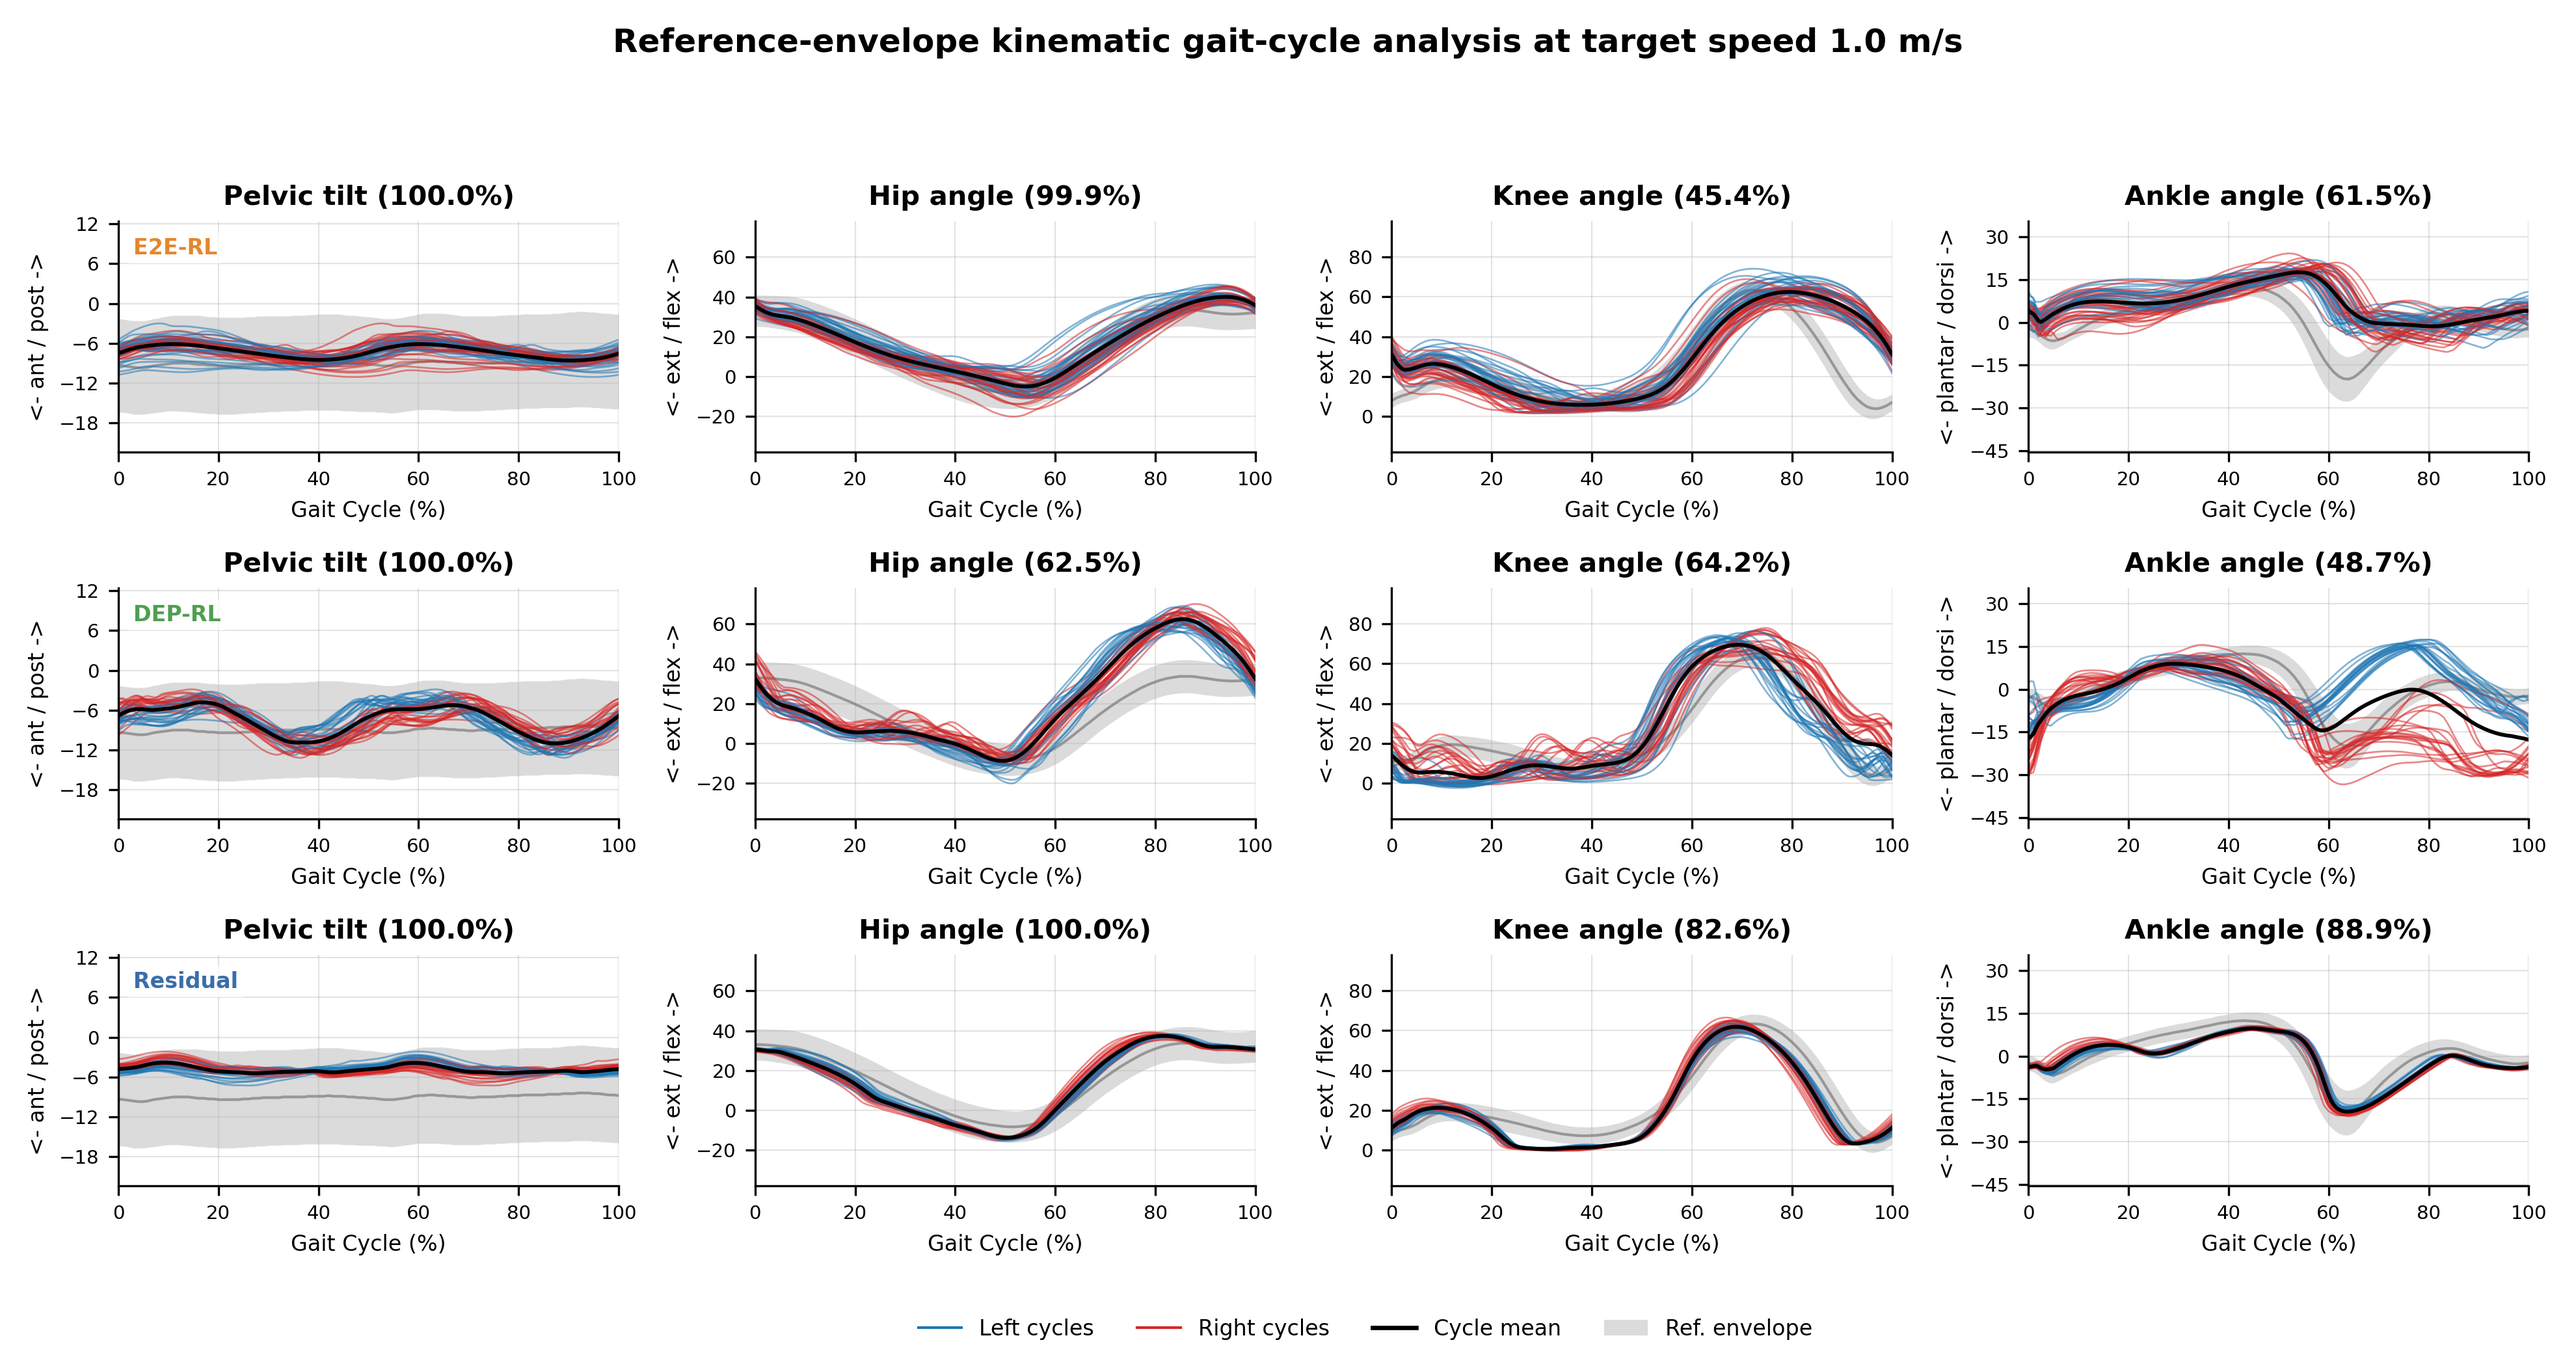
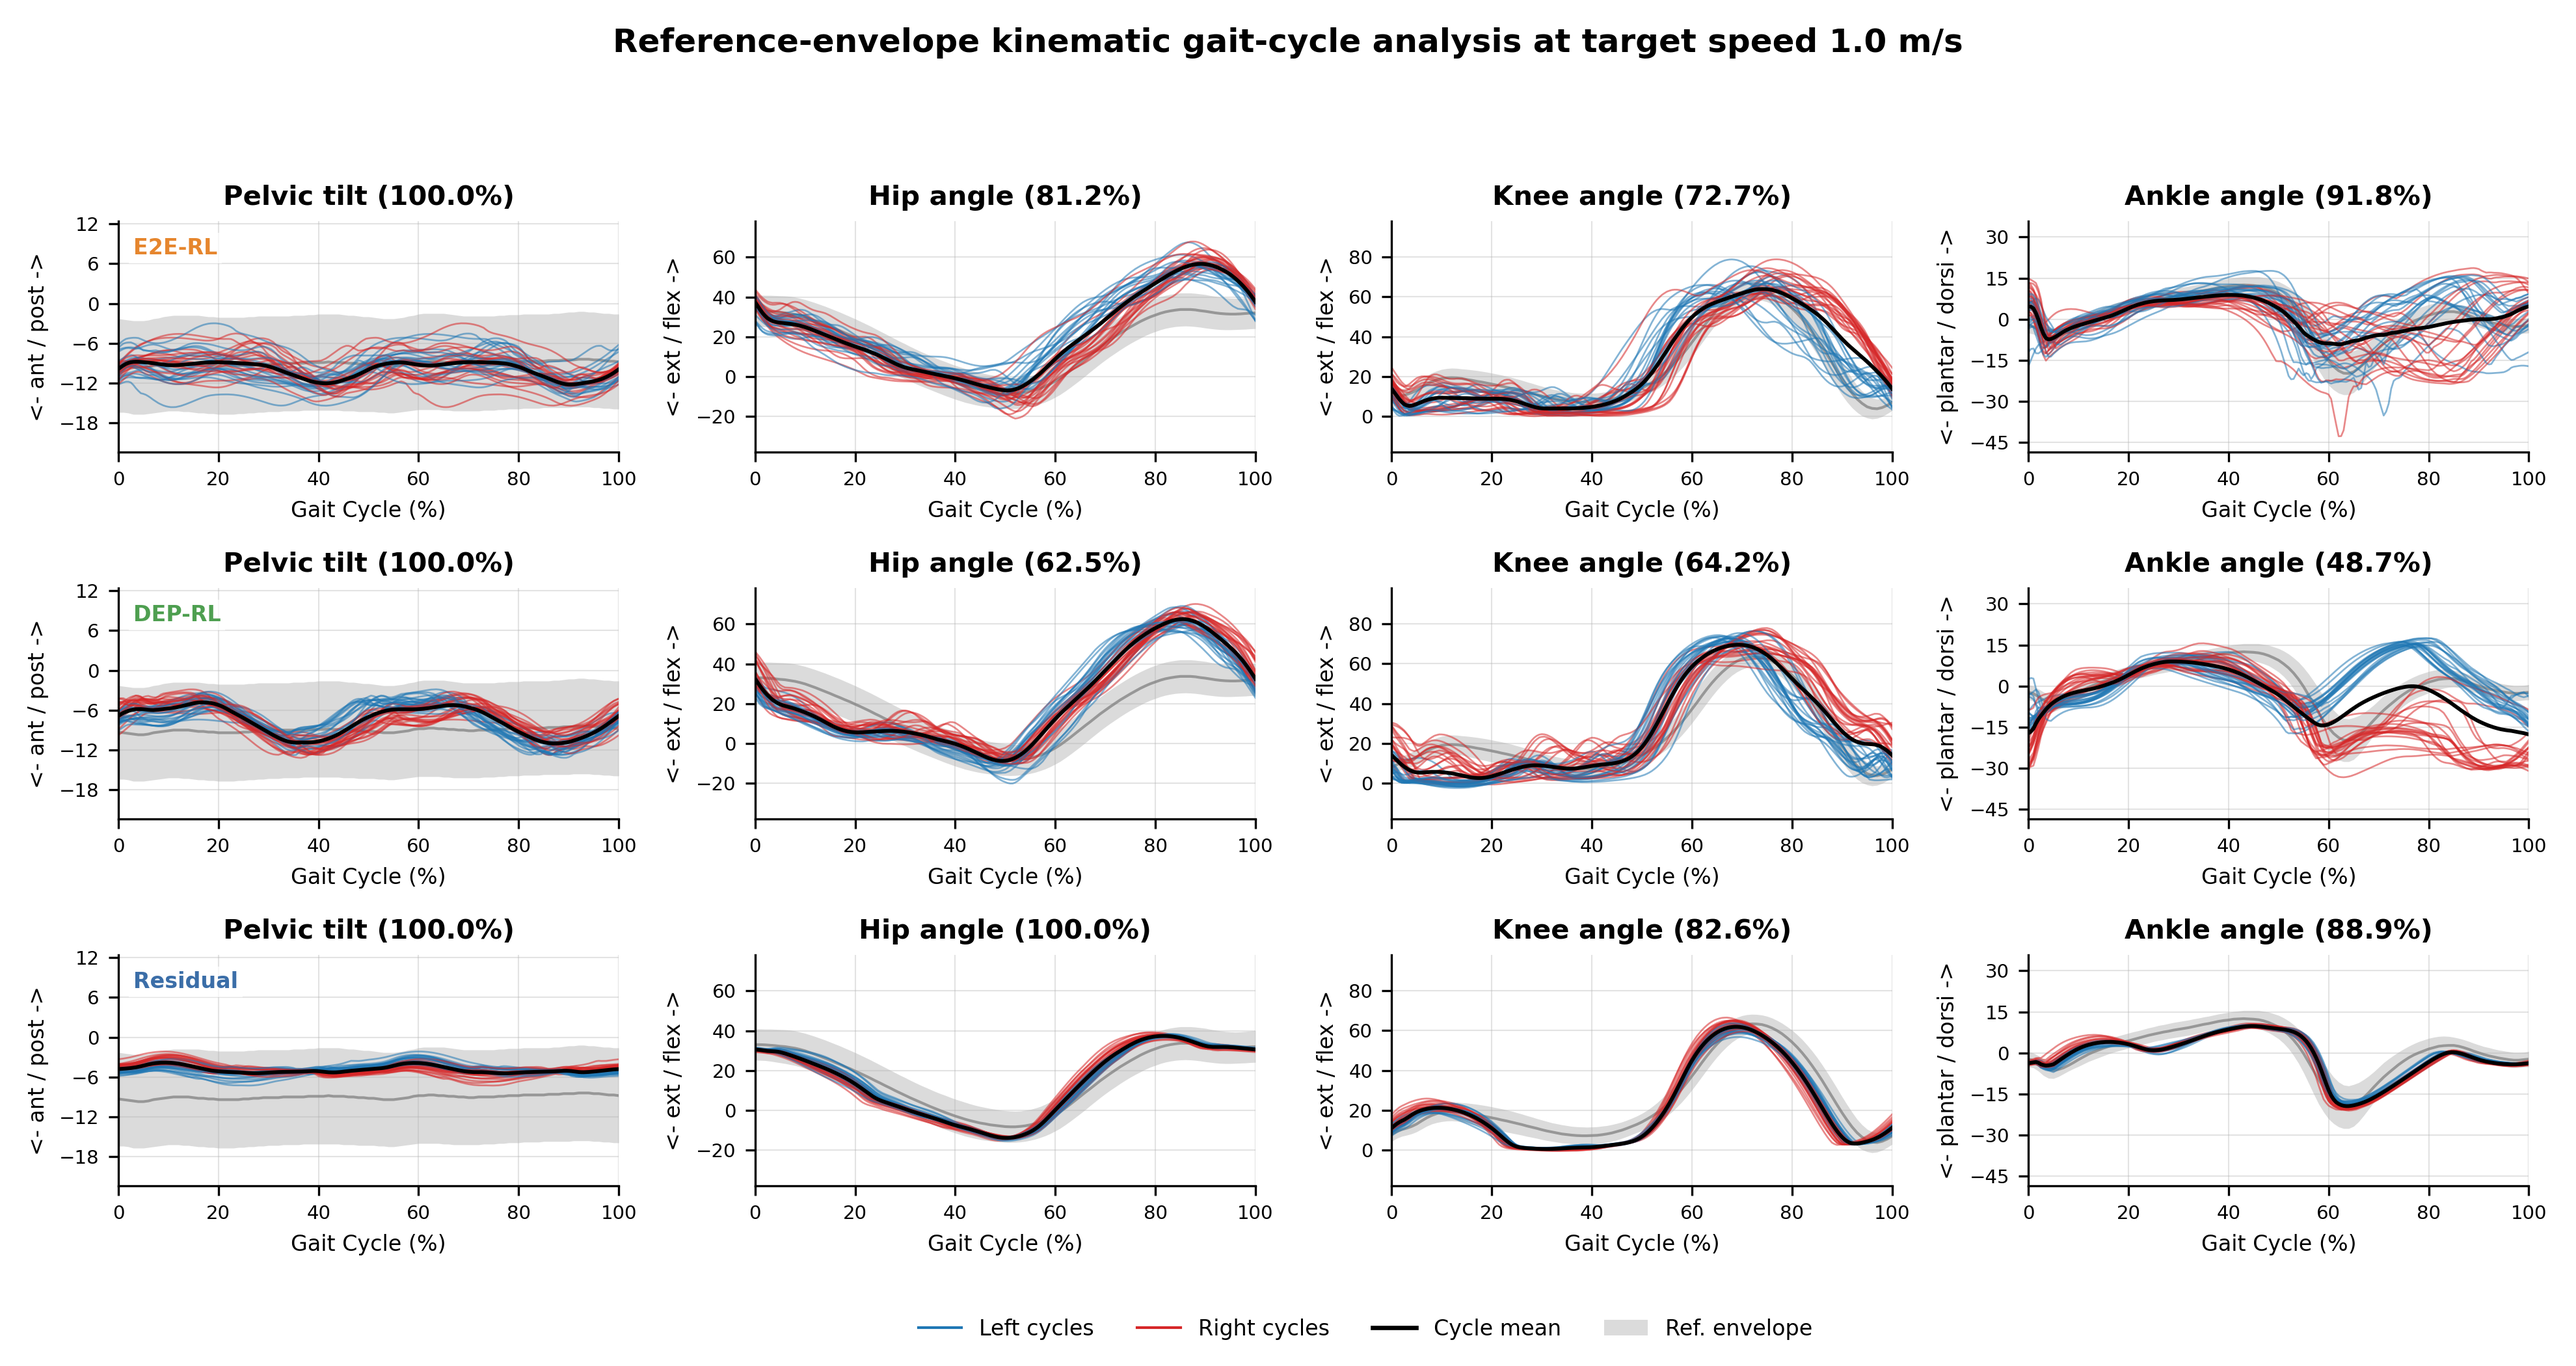
Update E2E 1.0 trajectory results

diff --git a/main.tex b/main.tex
@@ -441,9 +441,9 @@ speed.}
  & DEP-RL & 0.83 & 0.03 & 1.09 & 1.31 & 33 \\
  & Residual-Reflex RL & 0.79 & \textbf{0.01} & 0.99 & 1.26 & 35 \\
 \midrule
-1.0 & E2E-RL & 1.01 & \textbf{0.01} & 0.87 & 0.87 & 53 \\
+1.0 & E2E-RL & 1.18 & 0.18 & 1.39 & 1.18 & 37 \\
  & DEP-RL & 1.14 & 0.14 & 1.29 & 1.13 & 39 \\
- & Residual-Reflex RL & 1.05 & 0.05 & 1.23 & 1.17 & 37 \\
+ & Residual-Reflex RL & 1.05 & \textbf{0.05} & 1.23 & 1.17 & 37 \\
 \midrule
 1.2 & E2E-RL & 1.26 & 0.06 & 1.23 & 0.97 & 46 \\
  & DEP-RL & 1.30 & 0.10 & 1.37 & 1.06 & 42 \\
@@ -458,7 +458,7 @@ Table~\ref{tab:gait_similarity} summarizes the reference-envelope gait-cycle
 scores for the three policy interfaces. Across the three target speeds, the
 proposed Residual-Reflex RL controller achieved the highest overall
 reference-based gait similarity. The average overall score over the three
-speeds was 89.9\% for Residual-Reflex RL, 63.7\% for E2E-RL, and 51.3\% for
+speeds was 89.9\% for Residual-Reflex RL, 64.9\% for E2E-RL, and 51.3\% for
 DEP-RL. Fig.~\ref{fig:gait_score_bars} visualizes the main component
 scores and shows that the largest residual-reflex improvements appear in knee
 kinematics, ankle kinematics, and vertical GRF morphology. Compared with both
@@ -485,9 +485,9 @@ vertical GRF.}
  & DEP-RL & 0.83 & 54.4 & 72.7 & 50.8 & 8.7 & 39.8 \\
  & Residual-Reflex RL & 0.79 & \textbf{84.2} & 96.6 & \textbf{68.9} & \textbf{78.5} & \textbf{76.7} \\
 \midrule
-1.0 & E2E-RL & 1.01 & 70.9 & 99.9 & 45.4 & 61.5 & 48.0 \\
+1.0 & E2E-RL & 1.18 & 74.7 & 81.2 & 72.7 & \textbf{91.8} & 27.6 \\
  & DEP-RL & 1.14 & 55.1 & 62.5 & 64.2 & 48.7 & 0.0 \\
- & Residual-Reflex RL & 1.05 & \textbf{92.3} & \textbf{100.0} & \textbf{82.6} & \textbf{88.9} & \textbf{89.8} \\
+ & Residual-Reflex RL & 1.05 & \textbf{92.3} & \textbf{100.0} & \textbf{82.6} & 88.9 & \textbf{89.8} \\
 \midrule
 1.2 & E2E-RL & 1.26 & 69.6 & 88.4 & 52.4 & 85.9 & 21.5 \\
  & DEP-RL & 1.30 & 44.5 & 44.5 & 33.4 & 44.5 & 0.0 \\
@@ -591,7 +591,7 @@ Lower values indicate more symmetric or more repeatable gait.}
  & DEP-RL & 11.20 & 11.73 & 11.59 & 0.12 & 7.96 & 11.04 \\
  & Residual-Reflex RL & \textbf{0.80} & \textbf{1.03} & \textbf{0.89} & \textbf{0.04} & \textbf{1.98} & \textbf{5.66} \\
 \midrule
-1.0 & E2E-RL & 2.97 & 4.08 & 2.18 & 0.08 & 6.05 & 8.27 \\
+1.0 & E2E-RL & 6.12 & 10.61 & 6.69 & 0.07 & 5.03 & 5.63 \\
  & DEP-RL & 4.54 & 10.12 & 16.27 & 0.28 & 2.62 & 5.27 \\
  & Residual-Reflex RL & \textbf{1.78} & \textbf{1.85} & \textbf{0.97} & \textbf{0.03} & \textbf{1.51} & \textbf{1.86} \\
 \midrule
